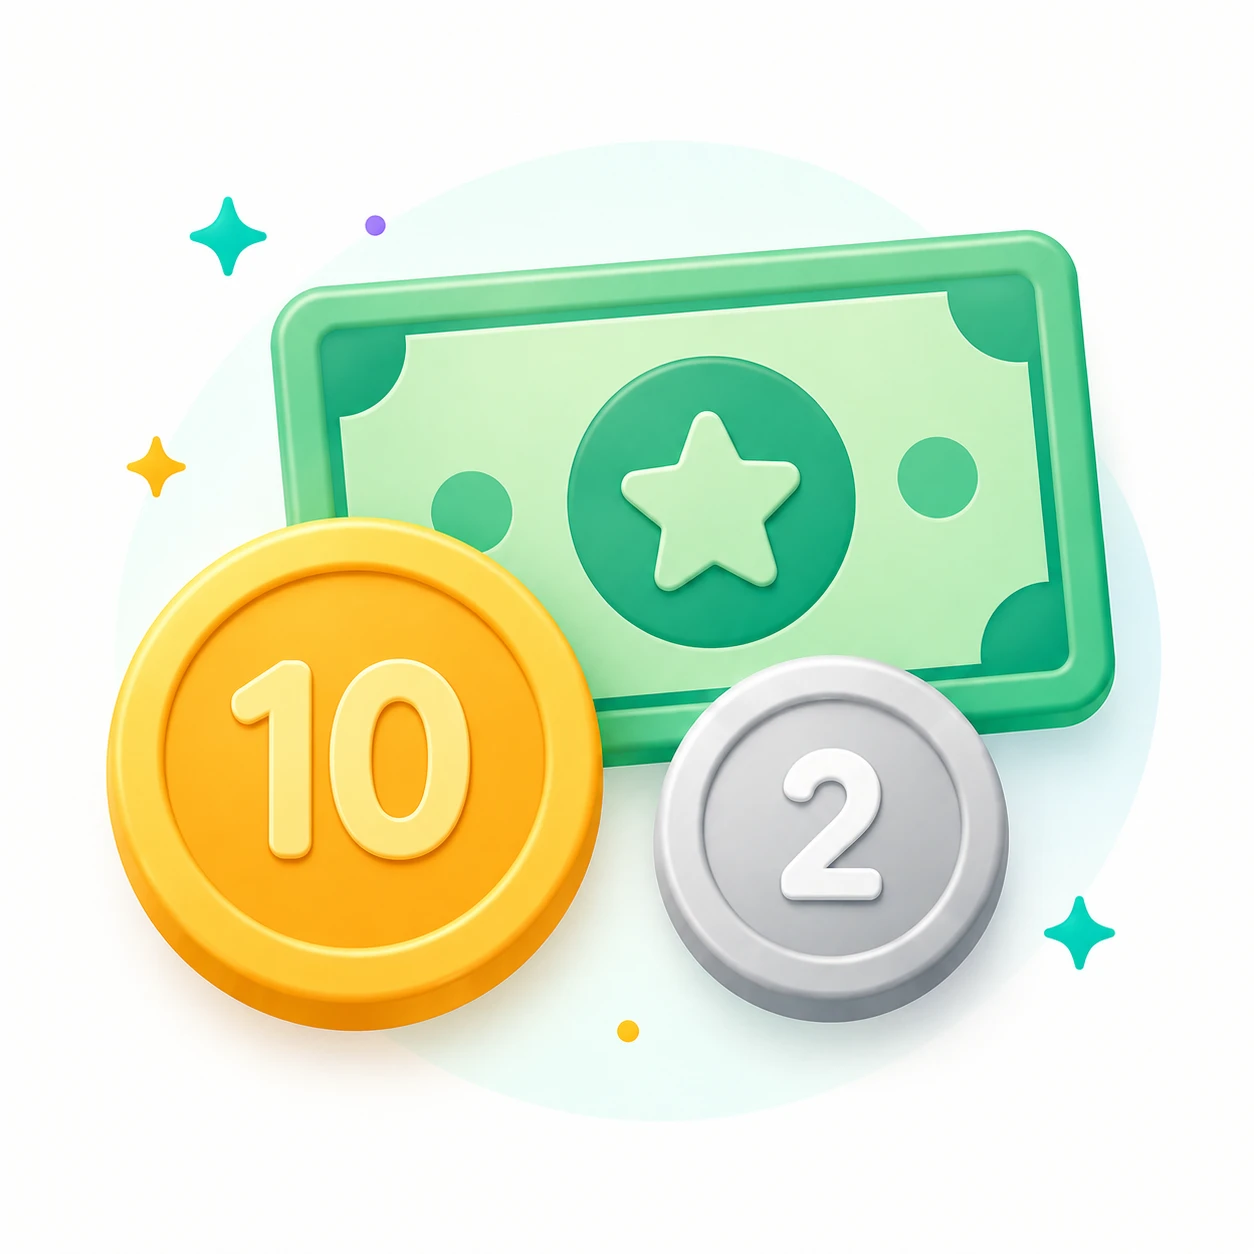
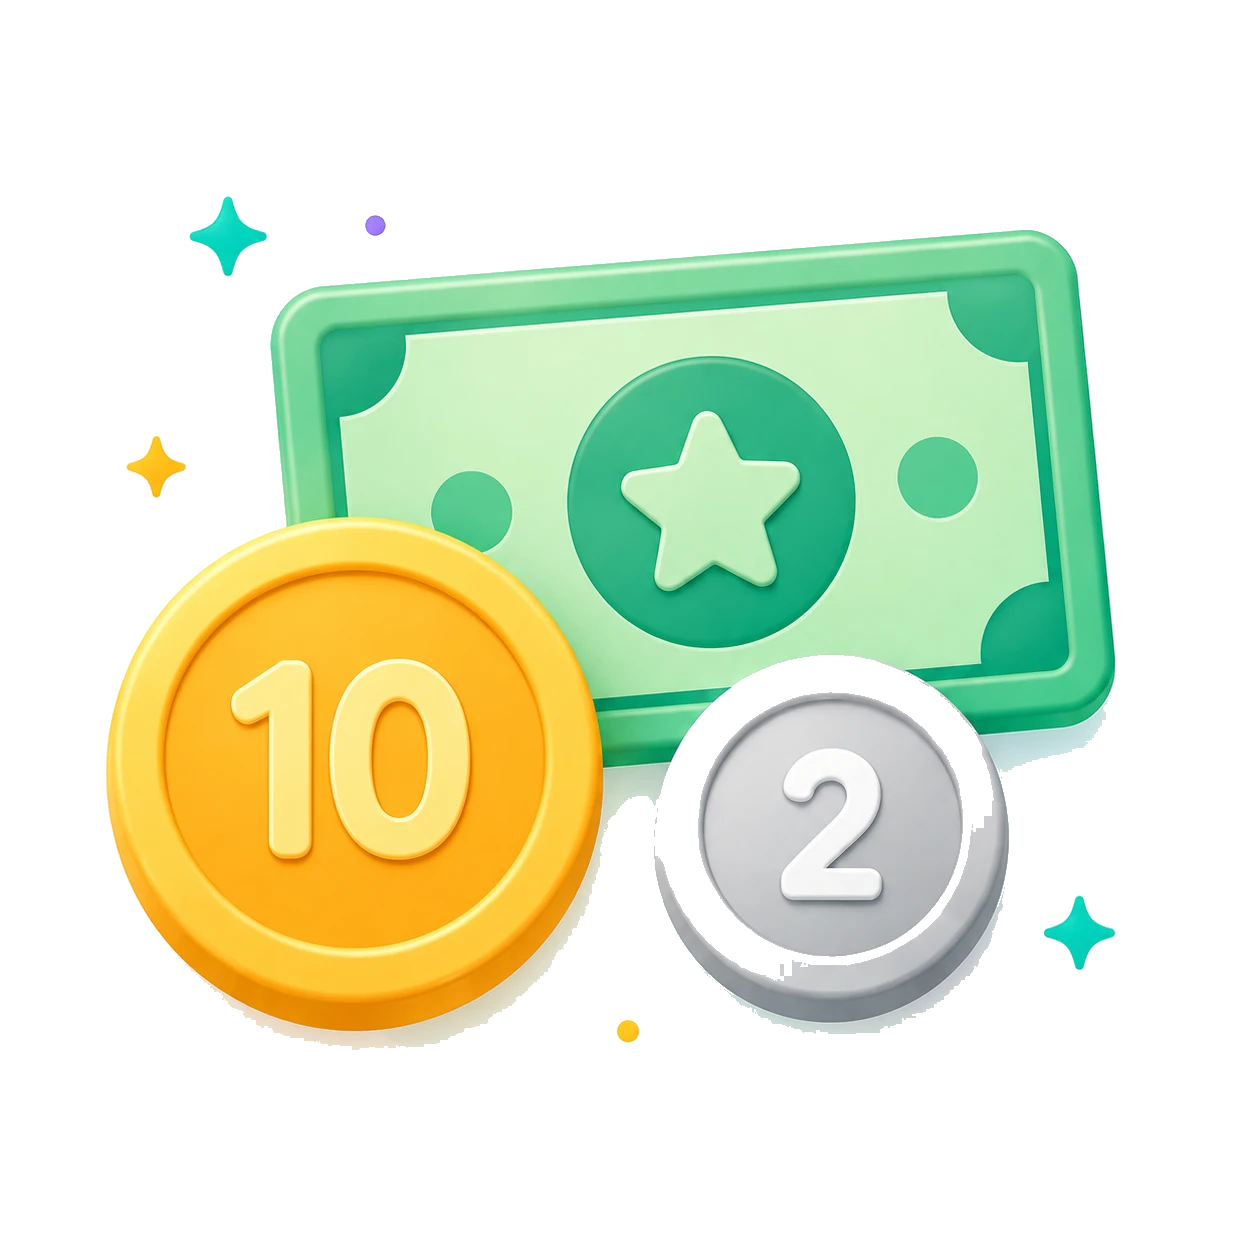
הסרת המסגרת והצל האפויים בתמונות הנושאים
האיורים הגיעו עם כרטיס לבן וצל רך מסביב, שנראו כמסגרת אפרפרה על
רקע העמוד. fix-clip-bg.py מציף עכשיו מהשוליים פנימה כל מה שבהיר
מ-205 והופך אותו ללבן צרוף — עוצר בקצה האיור עצמו (מסגרת המנטה
היא 126) ולכן התוכן נשאר שלם. רץ אוטומטית בכל שמירת תמונה.

Changed region(s): [[0.1244, 0.3732, 0.933, 0.8708]]

diff --git a/tools/fix-clip-bg.py b/tools/fix-clip-bg.py
@@ -19,15 +19,54 @@ def lum(p):
     return 0.299 * p[0] + 0.587 * p[1] + 0.114 * p[2]
 
 
+def whiten_halo(im, px, w, h, thresh=205):
+    """הרקע/הצל שסביב האיור → לבן צרוף.
+    מציף מהשוליים פנימה כל מה שכמעט-לבן ועוצר בקצה האיור עצמו.
+    בלי זה נשאר "ריבוע" אפרפר סביב האיור כשהוא מוצג על רקע צבעוני."""
+    seen = bytearray(w * h)
+    q = deque()
+
+    def near_white(p):
+        return min(p) >= thresh
+
+    for x in range(w):
+        for y in (0, h - 1):
+            if near_white(px[x, y]) and not seen[y * w + x]:
+                seen[y * w + x] = 1
+                q.append((x, y))
+    for y in range(h):
+        for x in (0, w - 1):
+            if near_white(px[x, y]) and not seen[y * w + x]:
+                seen[y * w + x] = 1
+                q.append((x, y))
+
+    n = 0
+    while q:
+        x, y = q.popleft()
+        px[x, y] = (255, 255, 255)
+        n += 1
+        for dx, dy in ((1, 0), (-1, 0), (0, 1), (0, -1)):
+            nx, ny = x + dx, y + dy
+            if 0 <= nx < w and 0 <= ny < h and not seen[ny * w + nx] and near_white(px[nx, ny]):
+                seen[ny * w + nx] = 1
+                q.append((nx, ny))
+    return n
+
+
 def main(path):
     im = Image.open(path).convert("RGB")
     w, h = im.size
     px = im.load()
 
-    # נגיעה בשוליים? אם אין פינה כהה — אין מה לתקן
     corners = [px[0, 0], px[w - 1, 0], px[0, h - 1], px[w - 1, h - 1]]
     if not any(lum(c) < DARK for c in corners):
-        print("אין רקע שחור — לא שונה דבר")
+        # אין רקע שחור — עדיין מנקים את הילת-הצל סביב האיור
+        n = whiten_halo(im, px, w, h)
+        if n:
+            im.save(path, "PNG")
+            print(f"נוקה צל/הילה: {n} פיקסלים → לבן")
+        else:
+            print("נקי — לא שונה דבר")
         return 0
 
     seen = bytearray(w * h)
@@ -70,8 +109,9 @@ def main(path):
             int(b + (255 - b) * t),
         )
 
+    halo = whiten_halo(im, px, w, h)
     im.save(path, "PNG")
-    print(f"תוקן: {filled} פיקסלים ברקע + {len(edge)} בשוליים → לבן")
+    print(f"תוקן: {filled} ברקע + {len(edge)} בשוליים + {halo} בהילה → לבן")
     return 0
 
 
